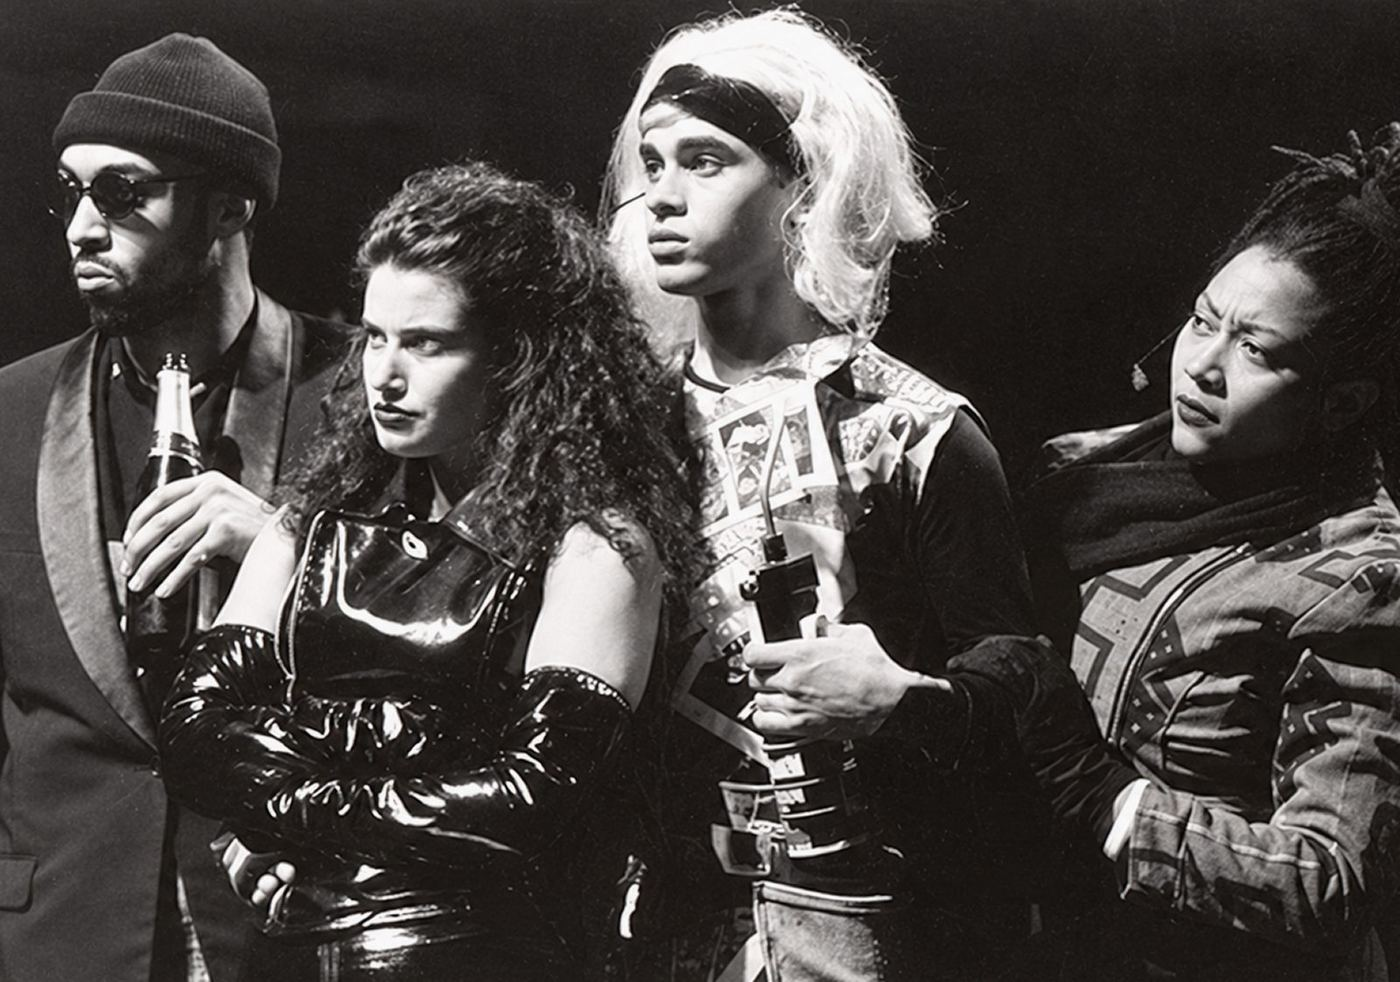
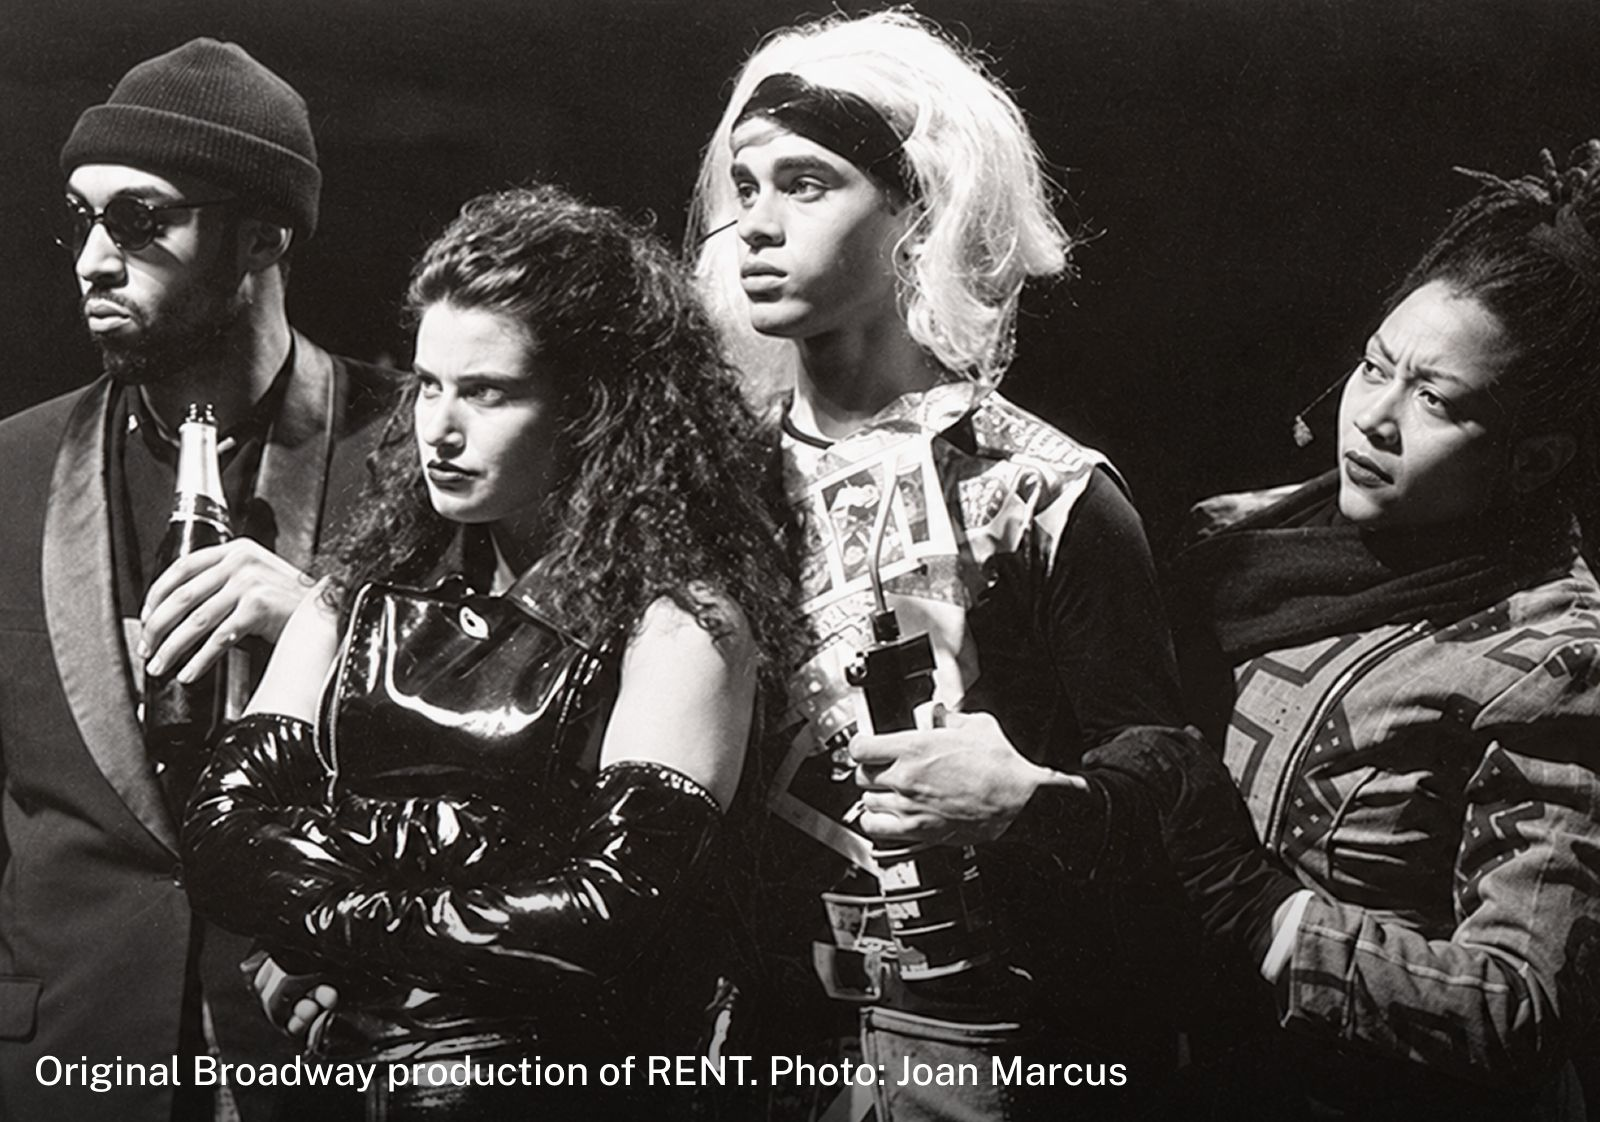
Restore original cast photo with credits
Claude-Session: https://claude.ai/code/session_01WX6uRsqcYXWdFqDAGXthUi

diff --git a/index.html b/index.html
@@ -17,8 +17,8 @@
 <link rel="icon" type="image/png" sizes="32x32" href="favicon-32.png">
 <link rel="apple-touch-icon" href="apple-touch-icon.png">
 <script defer src="https://cloud.umami.is/script.js" data-website-id="f77260aa-2fc8-4497-9ee6-ddd14eaf5aa1"></script>
-<link rel="stylesheet" href="fonts.css?v=202611051352">
-<link rel="stylesheet" href="style.css?v=202611051352">
+<link rel="stylesheet" href="fonts.css?v=202611071657">
+<link rel="stylesheet" href="style.css?v=202611071657">
 </head>
 <body>
 
@@ -92,7 +92,7 @@
     <h2 class="sx__h t a" style="--d:150;--m:56" data-i18n="about_h">WHAT IS “RENT”</h2>
     <div class="sx__body">
       <p class="sx__p o-l4" data-i18n="dx_ab1">RENT is a rock musical by Jonathan Larson about a year in the life of a group of young artists in New York in the early nineties. They can’t pay the rent, they fall in love, they lose each other, and they’re right in the middle of the AIDS crisis.</p>
-      <!-- hidden: <div class="sx-img o-l4" style="--r:800/561"><img src="images/home/original-cast.jpg" alt="Original RENT cast, 1996"></div> -->
+      <div class="sx-img o-l4" style="--r:1600/1122"><img src="images/home/original-cast.jpg?v=202611071657" alt="Original RENT cast, 1996"></div>
       <p class="sx__p o-r4" data-i18n="dx_ab2">Larson wrote it about his own friends and neighbourhood. He died suddenly, at age 35, the night before the first preview of the show, and never saw what came next: RENT moved to Broadway, won the Pulitzer Prize and four Tony Awards (including Best Musical), ran for twelve years and became one of the most iconic musicals ever written.</p>
       <p class="sx__p o-l2" data-i18n="dx_ab3">People get sick, fall in and out of love, behave like complete assholes — often all in the same song. Somehow, you end up rooting for them. Larson took Puccini’s La Bohème and moved it to 1990s New York.</p>
       <p class="sx__q o-l2" data-i18n="dx_abq">Thirty years later, we’re bringing his New York to Belgrade, and it feels just as relevant here and now.</p>
@@ -130,7 +130,7 @@
     <h2 class="sx__h t a" style="--d:150;--m:56" data-i18n="team_h">TEAM</h2>
     <div class="sx__body">
       <p class="sx__p o-l2" data-i18n="dx_tm1">We’re a cast and crew from Serbia, Russia and the US who decided to stage a Broadway musical with whatever time and money we could offer. We did it because we love this show deeply, and because right now Belgrade needs this story more than ever.</p>
-      <div class="sx-img o-l4" style="--r:1045/840;--op:50% 64%"><video autoplay muted loop playsinline webkit-playsinline preload="auto" poster="images/team-poster.jpg?v=202611051352" aria-label="RENT team"><source src="images/team.mp4?v=202611051352" type="video/mp4"><source src="images/team.webm?v=202611051352" type="video/webm"></video></div>
+      <div class="sx-img o-l4" style="--r:1045/840;--op:50% 64%"><video autoplay muted loop playsinline webkit-playsinline preload="auto" poster="images/team-poster.jpg?v=202611071657" aria-label="RENT team"><source src="images/team.mp4?v=202611071657" type="video/mp4"><source src="images/team.webm?v=202611071657" type="video/webm"></video></div>
       <a class="sx__q sx__link o-l4" href="team/" data-i18n="dx_tmlink">get to know us better</a>
     </div>
 </section>
@@ -232,9 +232,9 @@
 <!-- ===== MOBILE STICKY CTA ===== -->
 <a href="#tickets" class="cta-bar cta-bar--fixed" data-i18n="cta_buy">BUY A TICKET</a>
 
-<script src="i18n.js?v=202611051352"></script>
-<script src="main.js?v=202611051352"></script>
+<script src="i18n.js?v=202611071657"></script>
+<script src="main.js?v=202611071657"></script>
 <script src="https://hub.xtix.ai/static/scripts/widget/xtixwidget.js"></script>
-<script src="fx.js?v=202611051352"></script>
+<script src="fx.js?v=202611071657"></script>
 </body>
 </html>

diff --git a/team/index.html b/team/index.html
@@ -17,8 +17,8 @@
 <link rel="icon" type="image/png" sizes="32x32" href="../favicon-32.png">
 <link rel="apple-touch-icon" href="../apple-touch-icon.png">
 <script defer src="https://cloud.umami.is/script.js" data-website-id="f77260aa-2fc8-4497-9ee6-ddd14eaf5aa1"></script>
-<link rel="stylesheet" href="../fonts.css?v=202611051352">
-<link rel="stylesheet" href="../style.css?v=202611051352">
+<link rel="stylesheet" href="../fonts.css?v=202611071657">
+<link rel="stylesheet" href="../style.css?v=202611071657">
 </head>
 <body class="teampage">
 
@@ -133,7 +133,7 @@
 <!-- ===== MOBILE STICKY CTA ===== -->
 <a href="../#tickets" class="cta-bar cta-bar--fixed" data-i18n="cta_buy">BUY A TICKET</a>
 
-<script src="../i18n.js?v=202611051352"></script>
-<script src="../main.js?v=202611051352"></script>
+<script src="../i18n.js?v=202611071657"></script>
+<script src="../main.js?v=202611071657"></script>
 </body>
 </html>

diff --git a/thankyou/index.html b/thankyou/index.html
@@ -6,8 +6,8 @@
 <title>THANK YOU — RENT MUSICAL BELGRADE</title>
 <meta name="robots" content="noindex">
 <script defer src="https://cloud.umami.is/script.js" data-website-id="f77260aa-2fc8-4497-9ee6-ddd14eaf5aa1"></script>
-<link rel="stylesheet" href="../fonts.css?v=202611051352">
-<link rel="stylesheet" href="../style.css?v=202611051352">
+<link rel="stylesheet" href="../fonts.css?v=202611071657">
+<link rel="stylesheet" href="../style.css?v=202611071657">
 <style>
   /* This page opens inside the xtix widget (iframe), so it is just the pink block,
      scaled to the width of the frame. */
